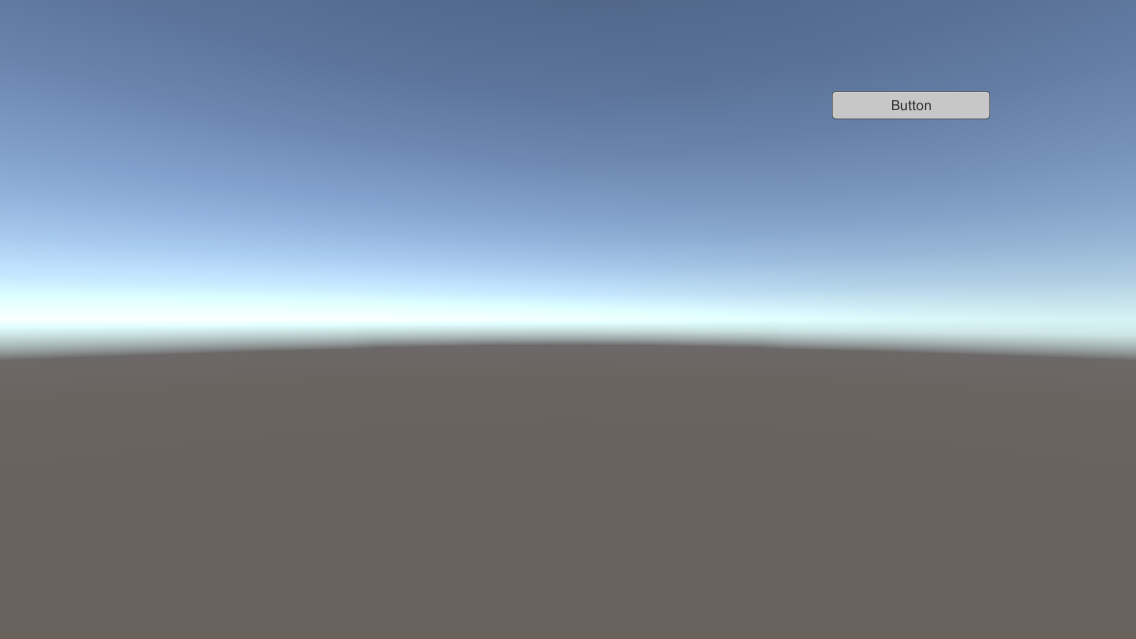
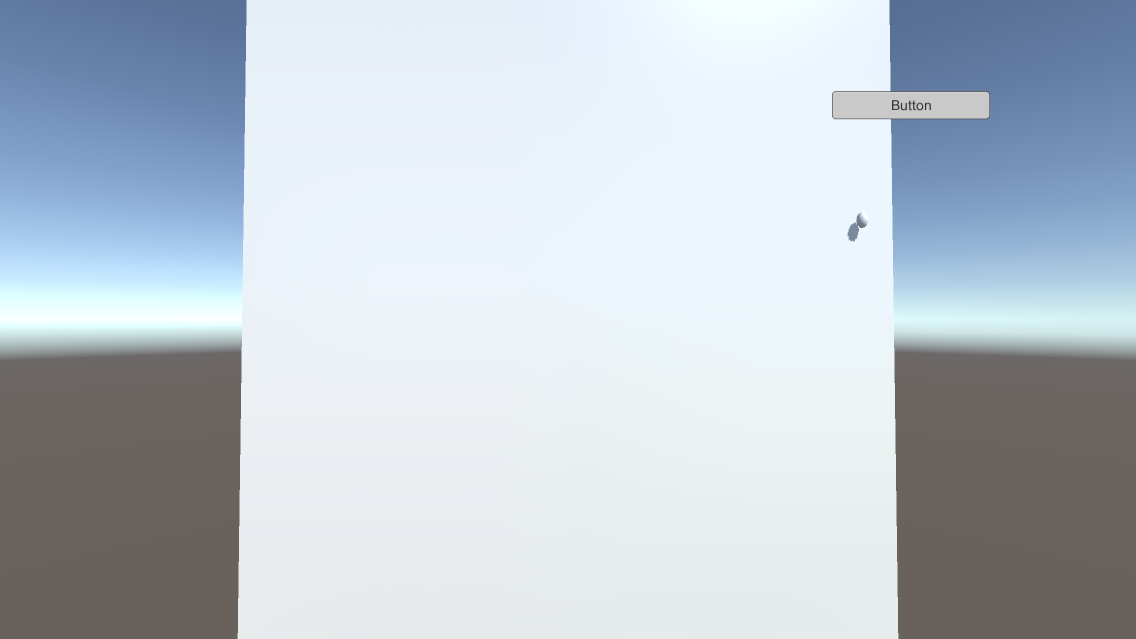
added snapshot feature

diff --git a/Assets/Scripts/TouchControls.cs b/Assets/Scripts/TouchControls.cs
@@ -10,16 +10,13 @@ public class TouchControls : MonoBehaviour
     private Vector3 touchStartLocation;
     private bool isFirstTouch;
     public int speed;
-    private Vector3 initalPosition;
+  
     
 
 
     void Start()
     {
         isFirstTouch = true;
-        initalPosition = transform.position;
-      
-
     }
 
     // Update is called once per frame
@@ -58,9 +55,7 @@ public class TouchControls : MonoBehaviour
                 currentPostion.Normalize();
                 Vector3 direction = touchFinalLocation - currentPostion;
                 direction.z = 1;
-                int magnitudeOfForce = speed;
-         
-                
+                int magnitudeOfForce = speed;  
                 player.GetComponent<Rigidbody>().velocity = direction * magnitudeOfForce;
             }
 
@@ -75,23 +70,18 @@ public class TouchControls : MonoBehaviour
     {
 
         GameObject plane = GameObject.FindGameObjectWithTag("Plane");
-        plane.transform.position = initalPosition;
-        plane.transform.localScale = new Vector3(2,2,2);
-        Camera.main.transform.position = new Vector3(0.0f,1.0f,-1.0f);
+        Vector3 newPositionForCamera =  plane.transform.position;
+        newPositionForCamera.z -= 4.0f;
+        newPositionForCamera.y = Camera.main.transform.position.y;
+        newPositionForCamera.x = Camera.main.transform.position.x;
+        plane.transform.localScale = new Vector3(0.5f,0.5f,0.5f);
+        Camera.main.transform.position = newPositionForCamera;
         Application.CaptureScreenshot("Assets/Screenshot.png");
     }
 
     void OnCollisionEnter(Collision collision)
     {
-
-        GameObject player = GameObject.FindGameObjectWithTag("Player");
-        player.GetComponent<Rigidbody>().velocity = Vector3.zero;
-        GameObject plane = GameObject.FindGameObjectWithTag("Plane");
-        collision.gameObject.transform.SetParent(plane.gameObject.transform);
-     
-        
-        //transform.position = intialPosition;
-
-
+        gameObject.GetComponent<Rigidbody>().velocity = Vector3.zero;
+        gameObject.transform.SetParent(collision.collider.gameObject.transform);
     }
 }
